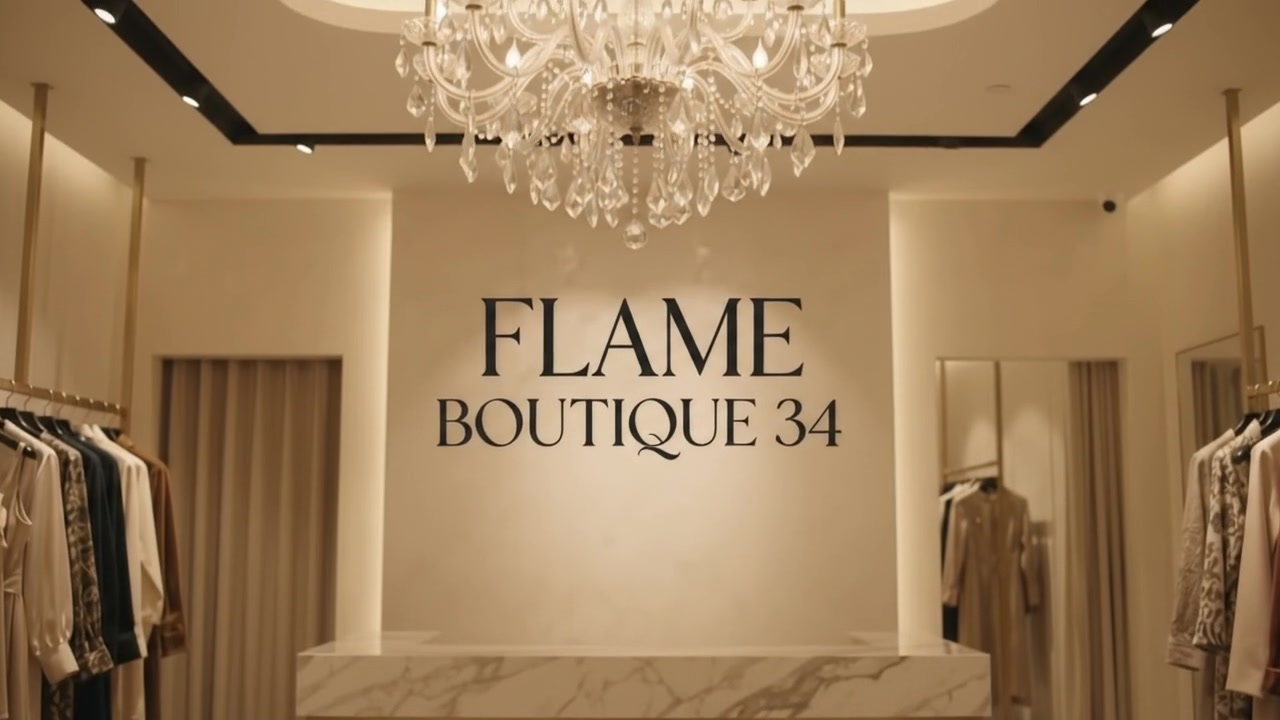
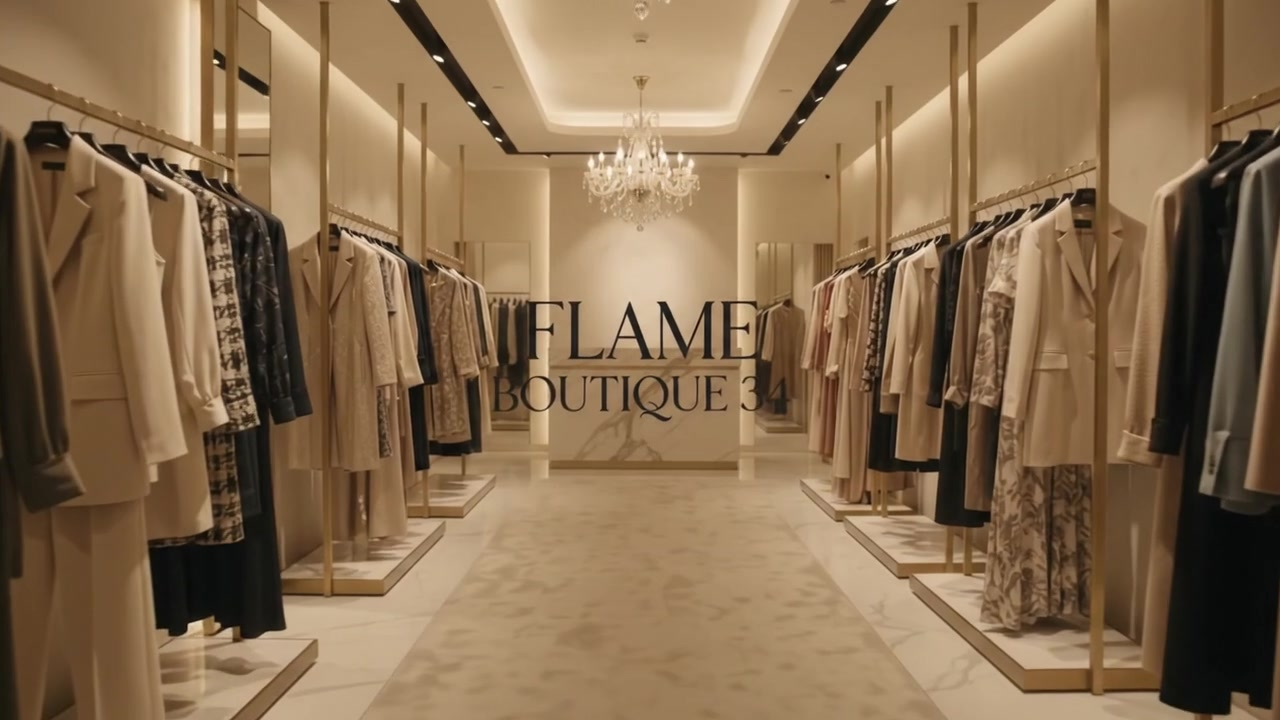
صفحة ترحيب: شعار المتجر فوق صورة كاملة للشاشة للمحل
- خلفية كاملة الشاشة بصورة مدخل المحل (عمودية للهاتف وأفقية للحاسوب).
- شعار اللهب (رمز المتجر) وتلميح «اضغطي للدخول» فوق الصورة، دون تكرار اسم
  المحل لأن اللافتة ظاهرة في الصورة نفسها.

Claude-Session: https://claude.ai/code/session_01EfLFRJjsgcmZh6n7zBF6V2

diff --git a/src/index.html b/src/index.html
@@ -36,13 +36,16 @@
 .splash.in{opacity:1}
 .splash.out{opacity:0;pointer-events:none}
 .splash img{position:absolute;inset:0;width:100%;height:100%;object-fit:cover}
-/* the welcome image already shows the boutique's own wall sign, so only a gentle "enter" hint sits over it */
-.splash-in{position:relative;z-index:1;width:100%;height:100%;display:grid;align-content:end;justify-items:center;text-align:center;color:#F4EAD9;padding:0 1.5rem 2.2rem;
-  background:linear-gradient(to top,rgba(25,19,13,.6),rgba(25,19,13,.1) 22%,transparent 42%)}
-.splash-hint{font-size:.92rem;letter-spacing:.06em;padding:.5rem 1.1rem;border-radius:999px;background:rgba(25,19,13,.4);border:1px solid rgba(244,234,217,.3);-webkit-backdrop-filter:blur(4px);backdrop-filter:blur(4px)}
-.splash.in .splash-hint{animation:splashUp .8s var(--ease,ease) both;animation-delay:.3s}
-@keyframes splashUp{from{opacity:0;transform:translateY(12px)}to{opacity:1;transform:none}}
-@media (prefers-reduced-motion:reduce){.splash{transition-duration:.2s}.splash.in .splash-hint{animation:none}}
+/* the store's flame logo + an "enter" hint sit over the full-screen photo of the boutique (the photo already shows the name) */
+.splash-in{position:relative;z-index:1;width:100%;height:100%;display:grid;align-content:end;justify-items:center;gap:.8rem;text-align:center;color:#F7EFE2;padding:0 1.5rem 2.4rem;
+  background:linear-gradient(to top,rgba(20,14,9,.6),rgba(20,14,9,.15) 34%,transparent 60%)}
+.splash-mark{width:52px;height:62px;color:#F7EFE2;filter:drop-shadow(0 2px 10px rgba(0,0,0,.5))}
+.splash-flame{fill:#E9C58B}
+.splash-hint{font-size:.92rem;letter-spacing:.06em;padding:.5rem 1.1rem;border-radius:999px;background:rgba(0,0,0,.35);border:1px solid rgba(247,239,226,.4);-webkit-backdrop-filter:blur(4px);backdrop-filter:blur(4px)}
+.splash.in .splash-in>*{animation:splashUp .9s var(--ease,ease) both}
+.splash.in .splash-hint{animation-delay:.25s}
+@keyframes splashUp{from{opacity:0;transform:translateY(14px)}to{opacity:1;transform:none}}
+@media (prefers-reduced-motion:reduce){.splash{transition-duration:.2s}.splash.in .splash-in>*{animation:none}}
 
 /* ---------- brand lines, shown in the store after the intro ---------- */
 .brand-lines{padding-block:clamp(2rem,6vw,3.6rem) clamp(.6rem,2vw,1rem);text-align:center}
@@ -423,6 +426,10 @@ summary{cursor:pointer;color:var(--ink)}
   <div class="splash" id="splash" aria-hidden="true" hidden>
     <picture><source media="(orientation: portrait)" srcset="assets/intro-poster-p.jpg"><img src="assets/intro-poster.jpg" alt="Flame Boutique 34" fetchpriority="high"></picture>
     <div class="splash-in">
+      <svg class="splash-mark" viewBox="0 0 30 36" aria-hidden="true">
+        <path fill="none" stroke="currentColor" stroke-width="1.3" d="M2 35V14a13 13 0 0 1 26 0v21"/>
+        <path class="splash-flame" d="M15 12c2 3.5 5.5 5.5 5 10a5 5 0 0 1-10 0c-.3-3.3 2.6-4.6 3.2-7 .6 1.5 1.2 2 1.8 2.4.4-1.6.3-3.3 0-5.4Z"/>
+      </svg>
       <span class="splash-hint" data-i18n="welcomeHint"></span>
     </div>
   </div>
